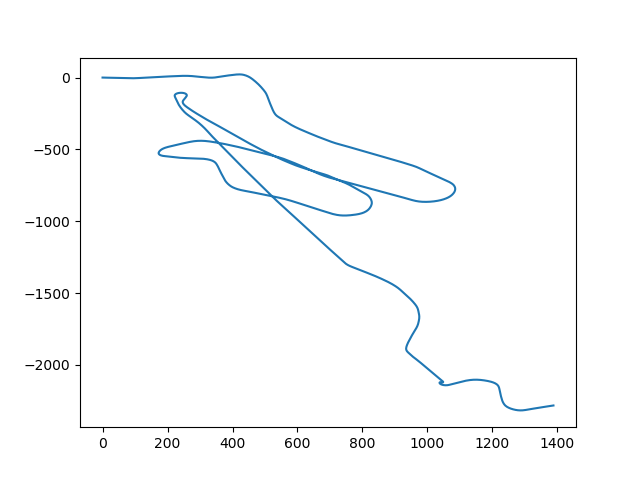
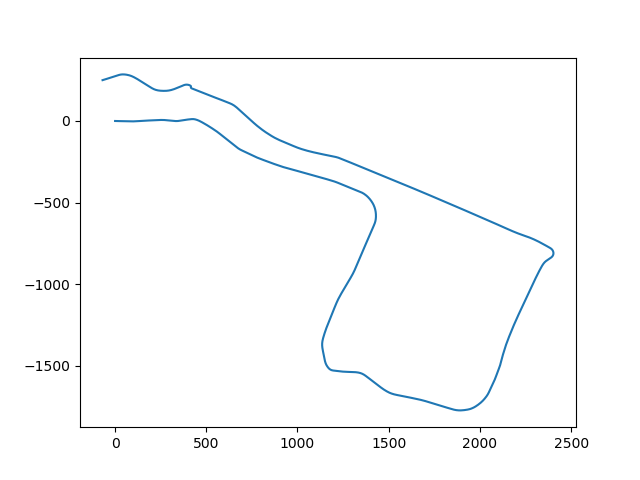
updated width

diff --git a/project3/slam.py b/project3/slam.py
@@ -102,7 +102,7 @@ class Robot:
 
         # Center wheel to center wheel width
         diam = 254
-        width = 393.7
+        width = 750 #760 #750 #740 #720 #700 #900 #800 #733 #393.7
         th_glob = 0
         x_glob = 0
         y_glob = 0
@@ -141,7 +141,7 @@ class Robot:
             assert(0, 'Increase the map size!')
         return int(i), int(j)
 
-    def calculate_map(self, height=7501, width=7501, rmax=10, rmin=-10, alpha_hit=0.7, alpha_miss=0.3):
+    def calculate_map(self, height=11001, width=11001, rmax=10, rmin=-10, alpha_hit=1.1, alpha_miss=0.05):
         """
         Height and width in centimeters.
         """
